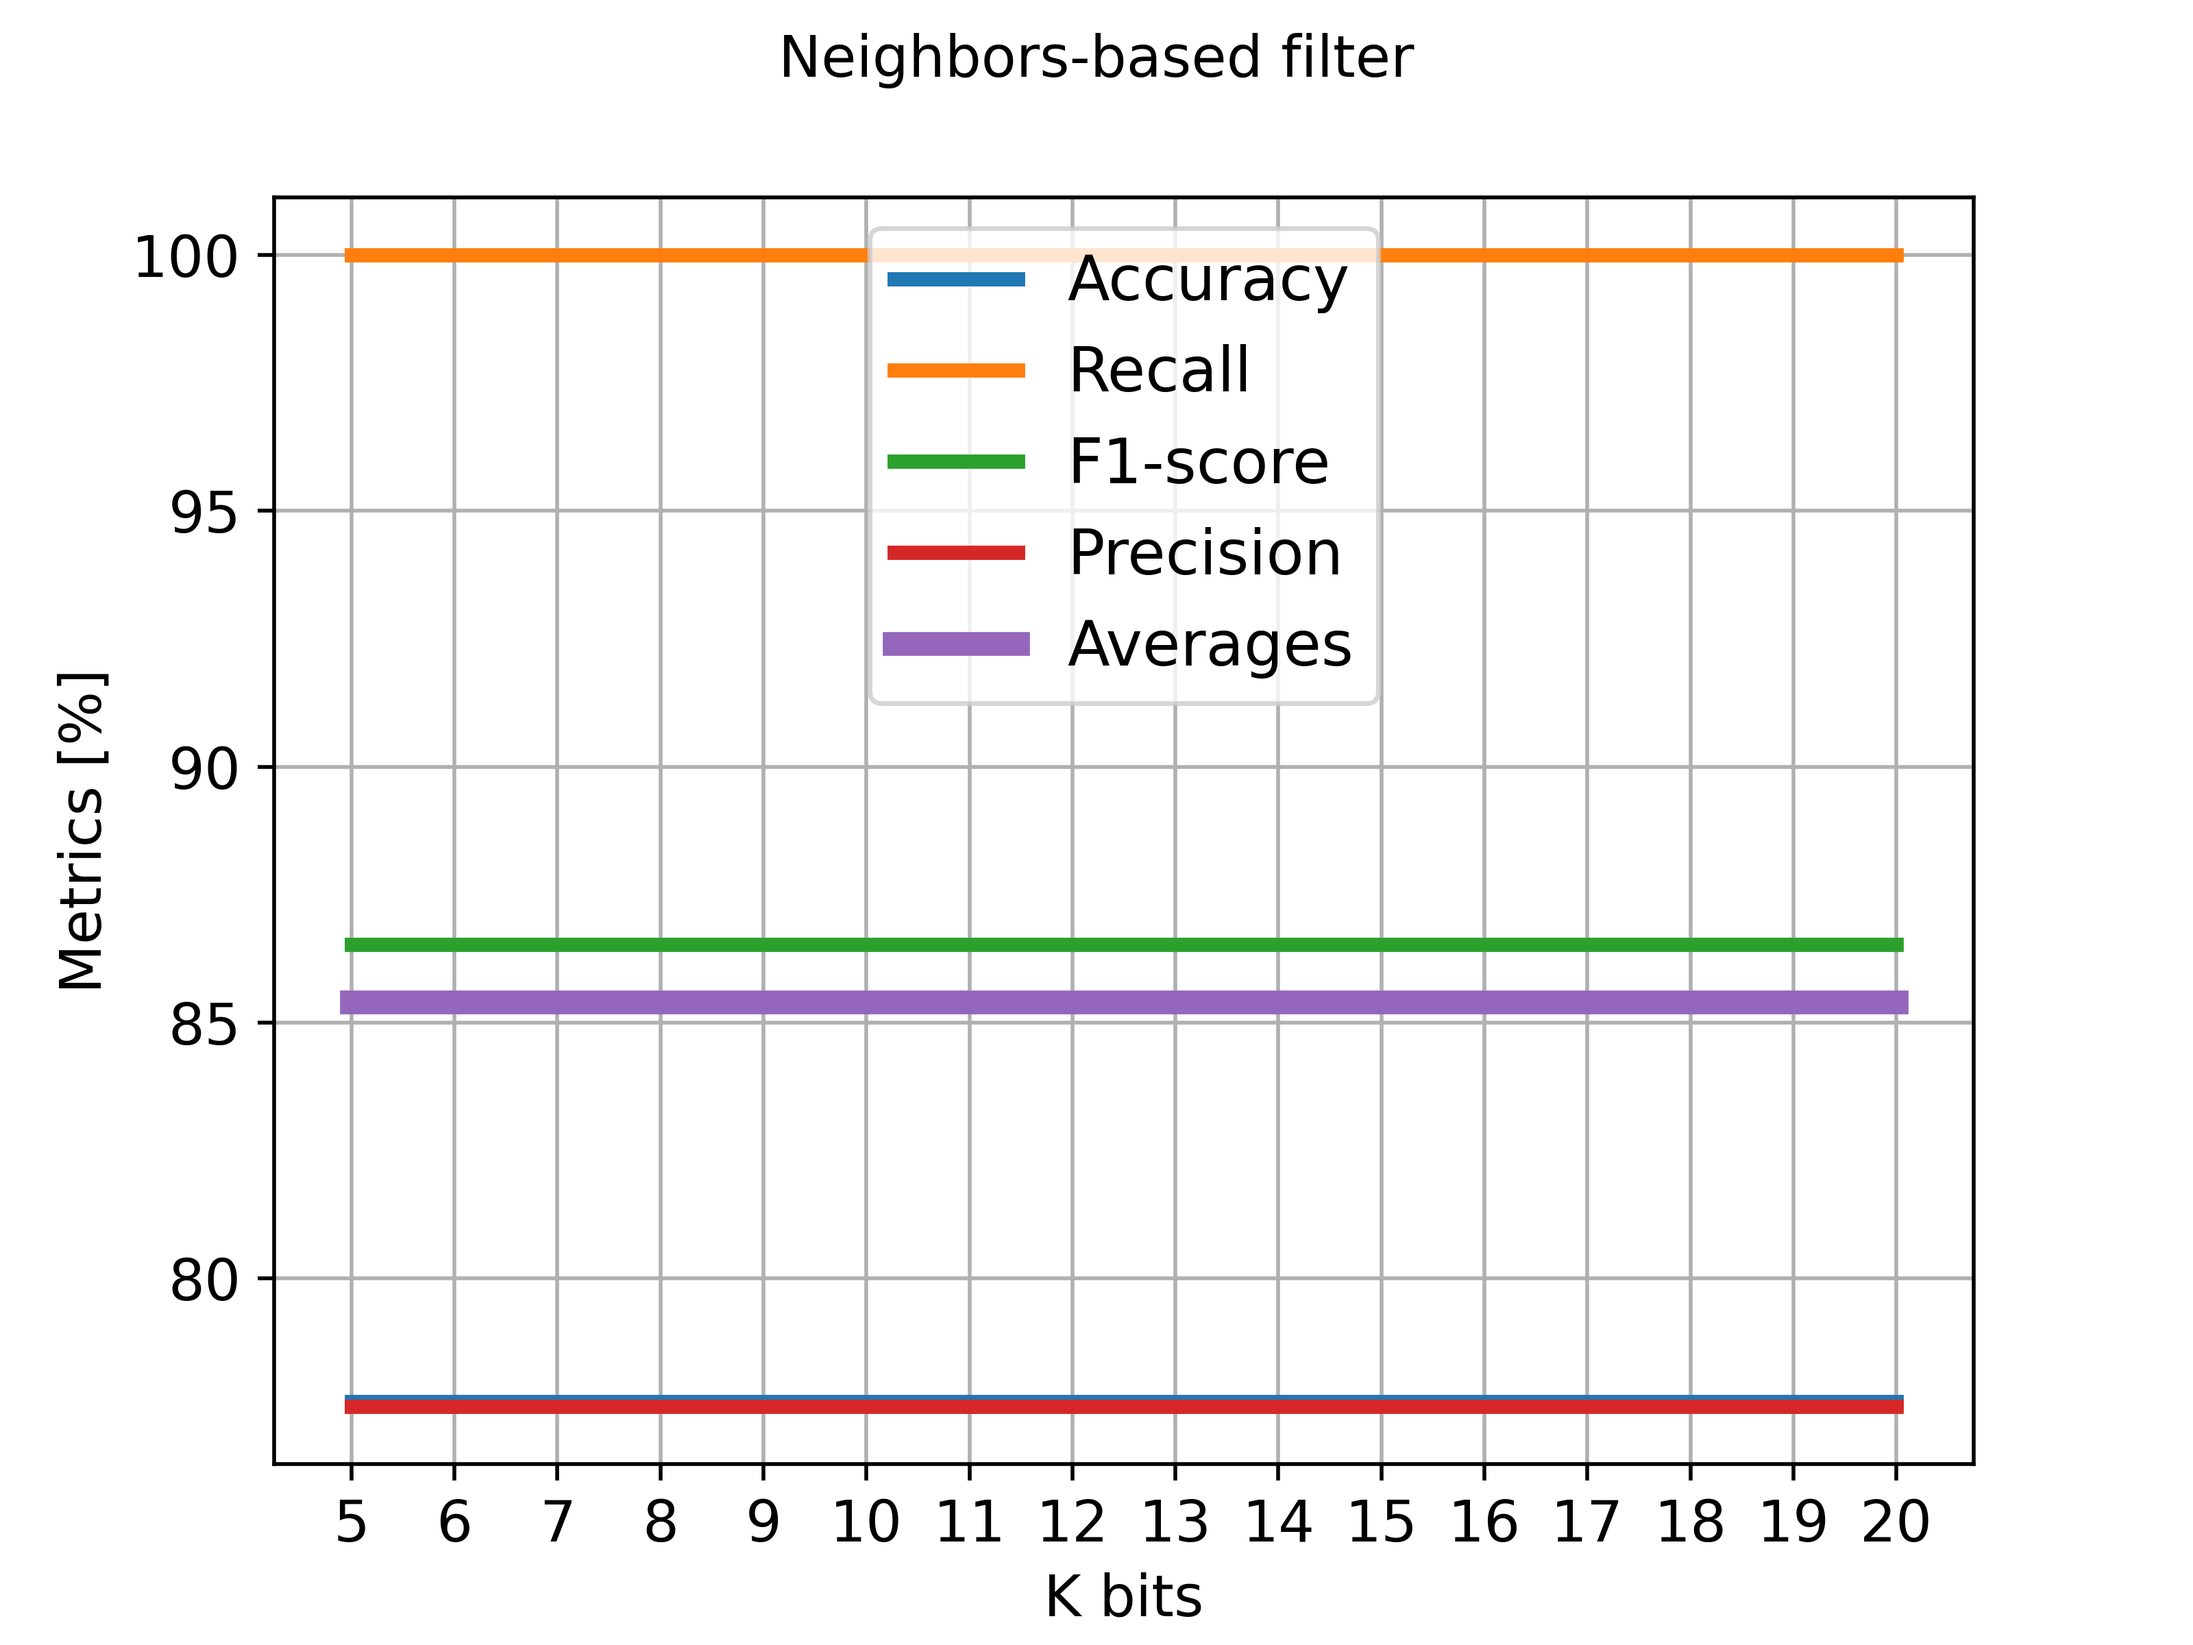
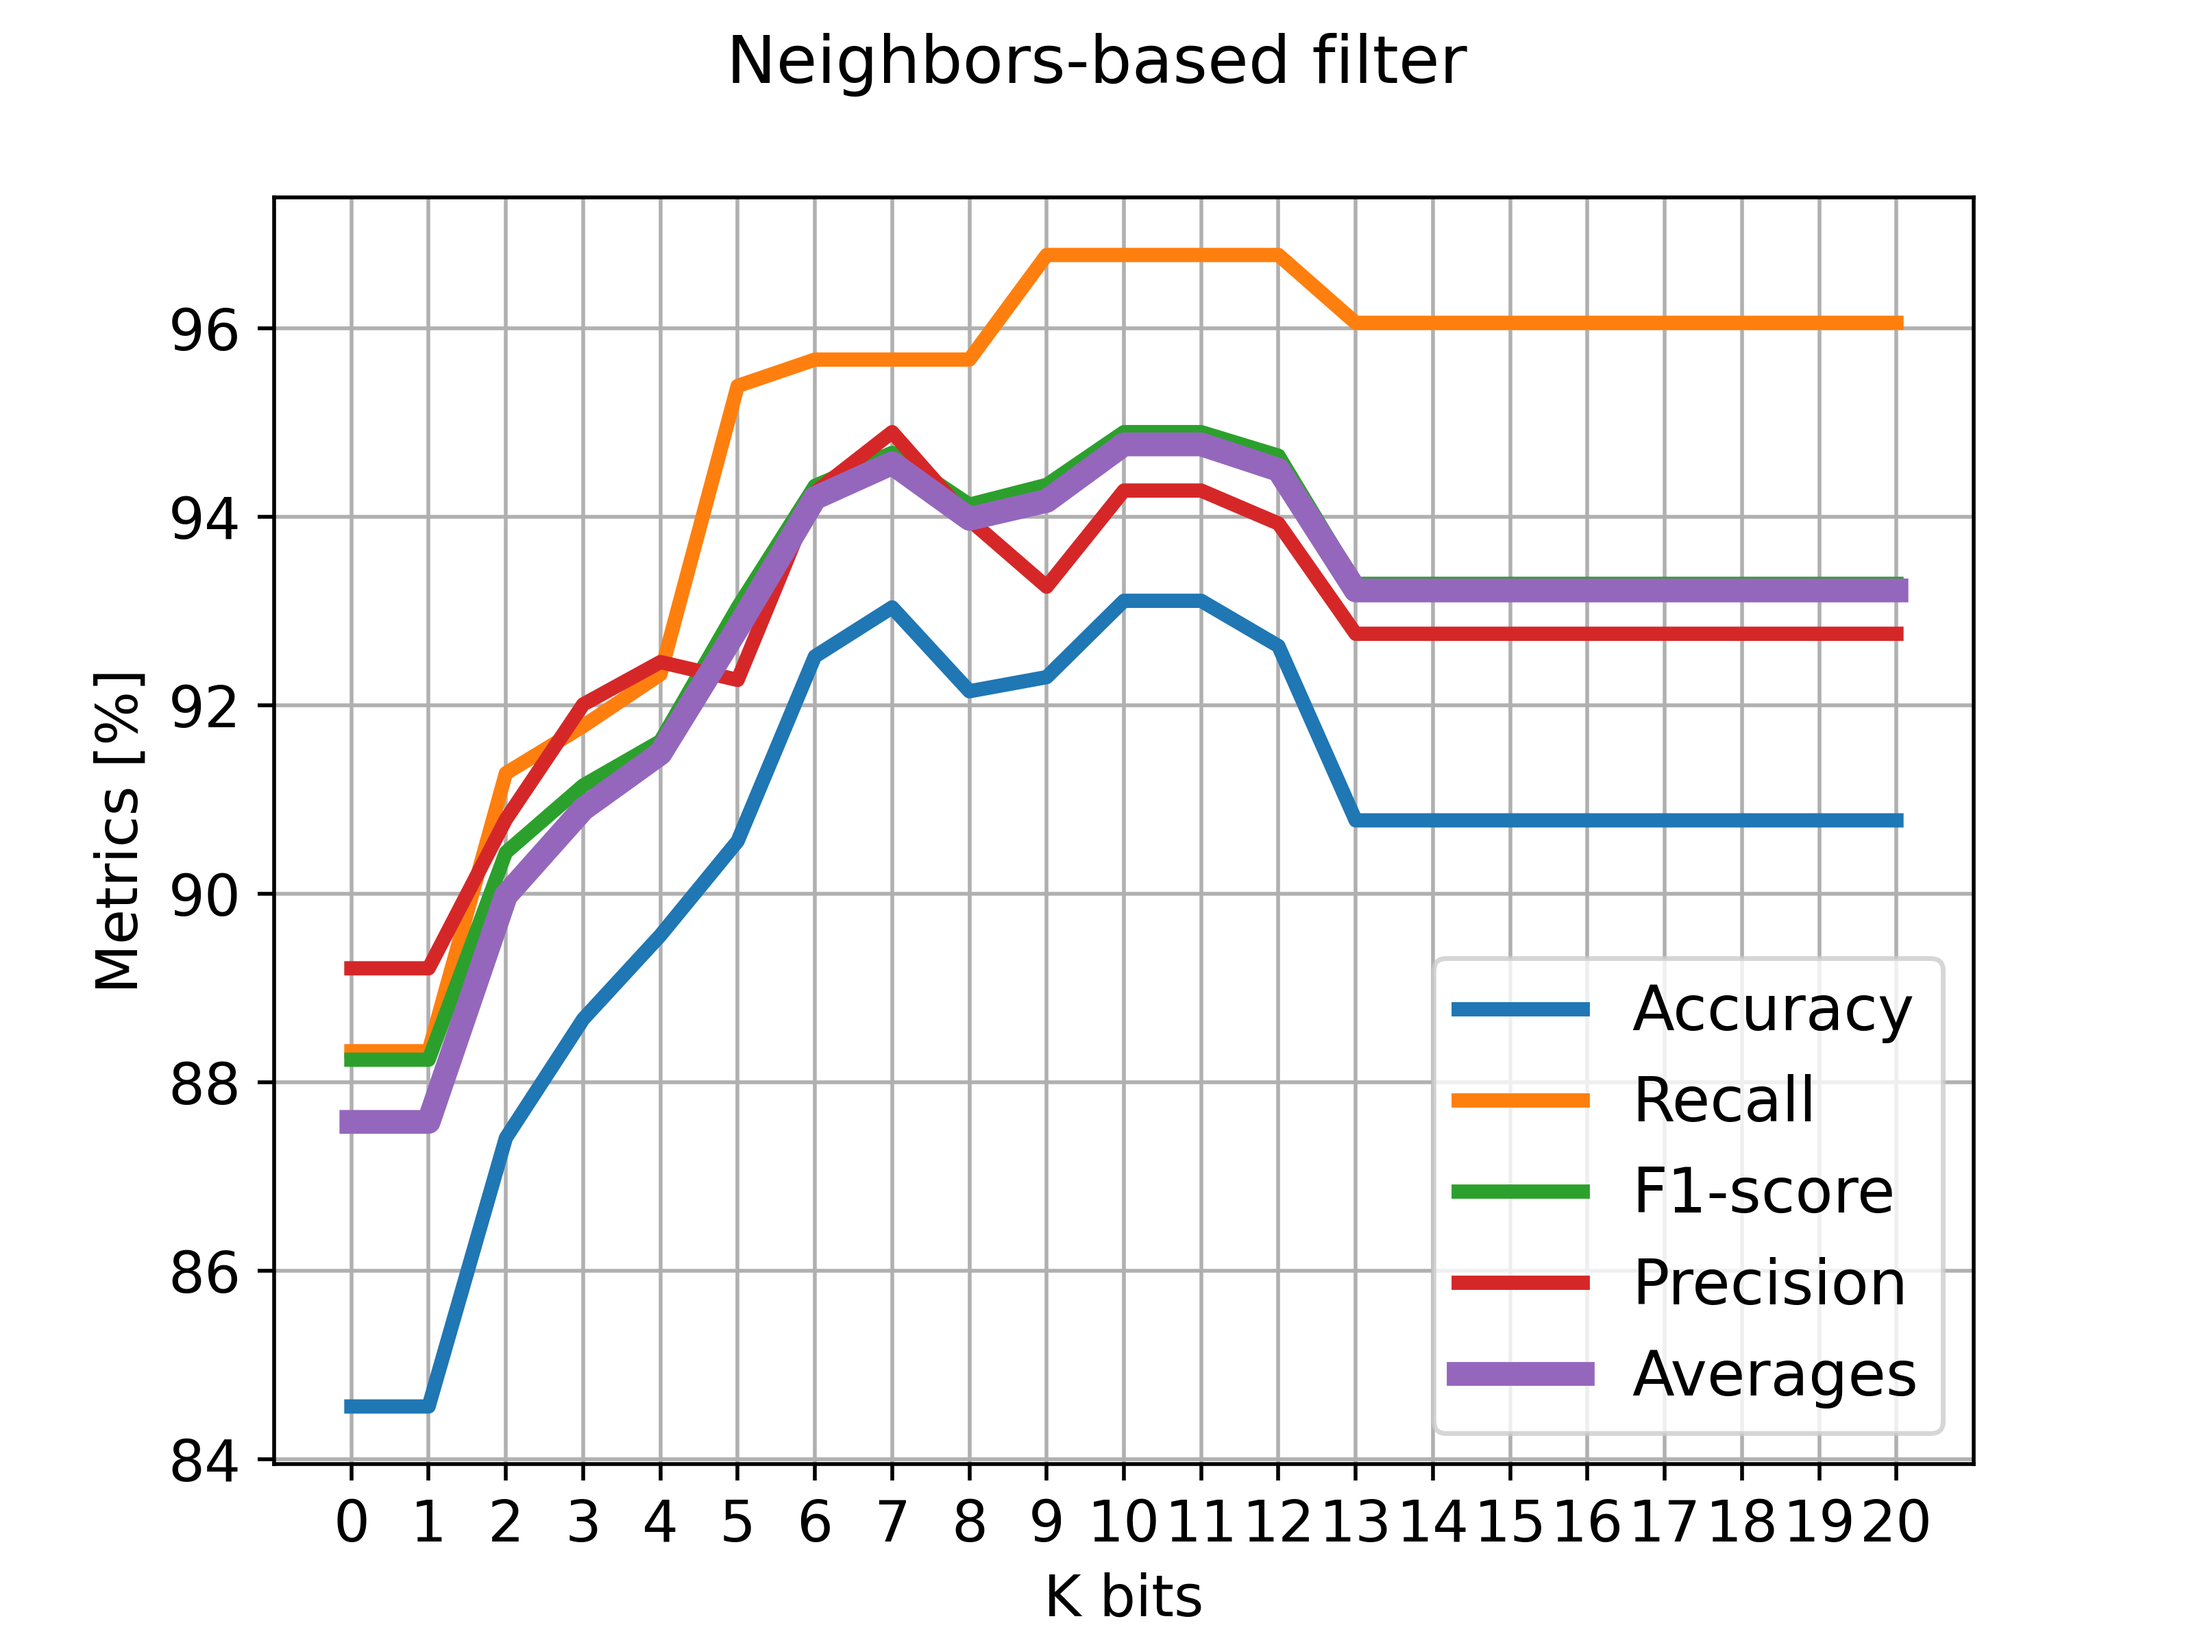
update

diff --git a/results/DT/375Hz_2classes/post_pro_KBitsFilter.py b/results/DT/375Hz_2classes/post_pro_KBitsFilter.py
@@ -2,14 +2,13 @@ import split_TEST
 import split_TRAIN
 import split_VALIDATION
 import pandas as pd
-from sklearn.metrics import confusion_matrix, ConfusionMatrixDisplay
 from sklearn import tree, metrics
 import numpy as np
 import matplotlib.pyplot as plt
 
 label_size_plot = 12
 fontsize = 12
-start_k, max_k, step_k = 0, 10, 1
+start_k, max_k, step_k = 0, 20, 1
 
 path_parameters = 'res_hyperopt.pkl'
 df_in = pd.read_pickle('375Hz_2classes.pkl')
@@ -74,7 +73,6 @@ loads = ['R1', 'R2', 'R3',
          'R2_T1', 'R2_T2', 'R2_T3',
          'R3_T1', 'R3_T2', 'R3_T3']
 
-
 df_best_parameters = pd.read_pickle(path_parameters)
 
 vetAcc = []
@@ -122,23 +120,19 @@ for k_bits in range(start_k, max_k + 1, step_k):
         p_test = clf.predict(X_test)
         previous_acc_test = metrics.accuracy_score(y_test, p_test)
 
-        """
-        new_p_undamaged = evaluate_undamaged(p_test[0:int(len(p_test) / 3)], k_bits)
-        new_p_damaged = evaluate_damaged(p_test[int(len(p_test) / 3):len(p_test)], k_bits)
+        new_p_undamaged = neighbors_based_filter(p_test[0:int(len(p_test) / 3)], k_bits)
+        new_p_damaged = neighbors_based_filter(p_test[int(len(p_test) / 3):len(p_test)], k_bits)
 
         p_test_new = []
         p_test_new.extend(new_p_undamaged)
-        p_test_new.extend(new_p_damaged)"""
-        p_test_new = neighbors_based_filter(p_test, k_bits)
-
-        acc_train = metrics.accuracy_score(y_train, p_train)
+        p_test_new.extend(new_p_damaged)
 
         acc_test = metrics.accuracy_score(y_test, p_test_new)
         rec = metrics.recall_score(y_test, p_test_new)
         f1 = metrics.f1_score(y_test, p_test_new)
         prec = metrics.precision_score(y_test, p_test_new)
 
-        print(f'{loads[i]}) New test accuracy: {round(acc_test * 100, 2)} % - Past test accuracy: {round(previous_acc_test * 100, 0)} %')
+        print(f'{loads[i]}) New test accuracy: {round(acc_test * 100, 2)} % - Past test accuracy: {round(previous_acc_test * 100, 2)} %')
 
         av_acc_test = av_acc_test + acc_test
         av_f1_test = av_f1_test + f1
@@ -172,7 +166,7 @@ plt.plot(x_axis, vetPrec, linewidth=3)
 plt.plot(x_axis, vetAverages, linewidth=5)
 plt.xlabel('K bits', fontsize=fontsize)
 plt.ylabel('Metrics [%]', fontsize=fontsize)
-plt.xticks(np.arange(start_k, max_k+1, 1), fontsize=label_size_plot)
+plt.xticks(x_axis, fontsize=label_size_plot)
 plt.yticks(fontsize=label_size_plot)
 plt.legend(['Accuracy', 'Recall', 'F1-score', 'Precision', 'Averages'], fontsize=13)
 plt.grid()

diff --git a/results/DT/375Hz_2classes/post_processing_sliding_window_consecutive.py b/results/DT/375Hz_2classes/post_processing_sliding_window_consecutive.py
@@ -8,7 +8,7 @@ import matplotlib.pyplot as plt
 
 label_size_plot = 12
 fontsize = 12
-start_k, max_k, step_k = 0, 20, 2
+start_k, max_k, step_k = 0, 20, 1
 
 path_parameters = 'res_hyperopt.pkl'
 df_in = pd.read_pickle('375Hz_2classes.pkl')
@@ -141,7 +141,7 @@ plt.plot(x_axis, vet_undamage, linewidth = 3)
 plt.plot(x_axis, vet_average, linewidth = 3)
 plt.xlabel('Thresholds', fontsize=fontsize)
 plt.ylabel('Correctness [%]', fontsize=fontsize)
-plt.xticks(np.arange(start_k, max_k+1, step_k), fontsize=label_size_plot)
+plt.xticks(x_axis, fontsize=label_size_plot)
 plt.yticks(fontsize=label_size_plot)
 plt.legend(['Damaged', 'Undamaged', 'Average'], fontsize=13)
 plt.grid()

diff --git a/results/DT/375Hz_2classes/post_processing_sliding_window.py b/results/DT/375Hz_2classes/post_processing_sliding_window.py
@@ -9,7 +9,7 @@ import matplotlib.pyplot as plt
 
 label_size_plot = 12
 fontsize = 12
-start_k, max_k, step_k = 0, 20, 2
+start_k, max_k, step_k = 0, 20, 1
 
 path_parameters = 'res_hyperopt.pkl'
 df_in = pd.read_pickle('375Hz_2classes.pkl')
@@ -125,7 +125,7 @@ plt.plot(x_axis, vet_undamage, linewidth=3)
 plt.plot(x_axis, vet_average, linewidth=3)
 plt.xlabel('Thresholds', fontsize=fontsize)
 plt.ylabel('Correctness [%]', fontsize=fontsize)
-plt.xticks(np.arange(start_k, max_k + 1, step_k), fontsize=label_size_plot)
+plt.xticks(x_axis, fontsize=label_size_plot)
 plt.yticks(fontsize=label_size_plot)
 plt.legend(['Damaged', 'Undamaged', 'Average'], fontsize=13)
 plt.grid()
